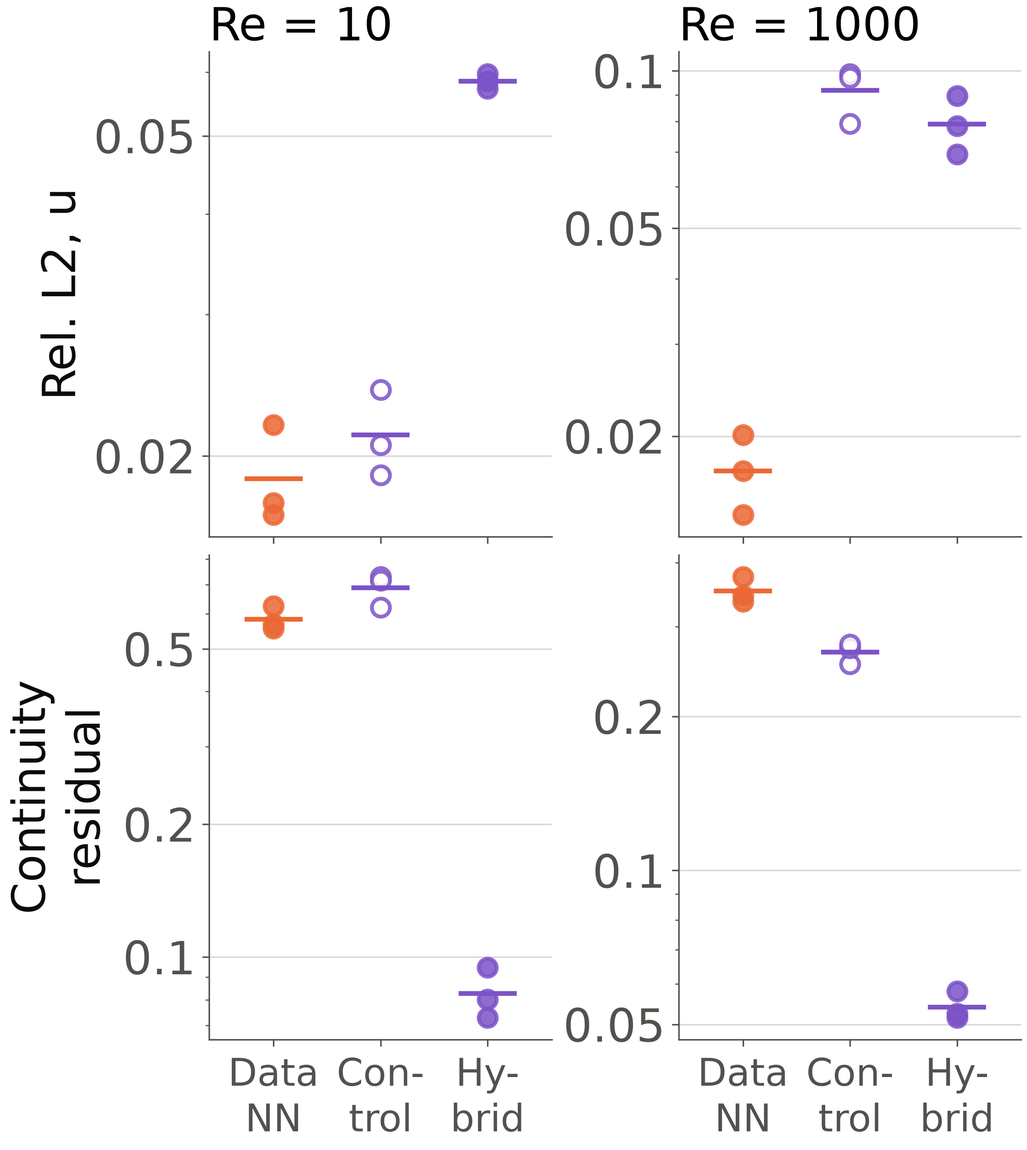
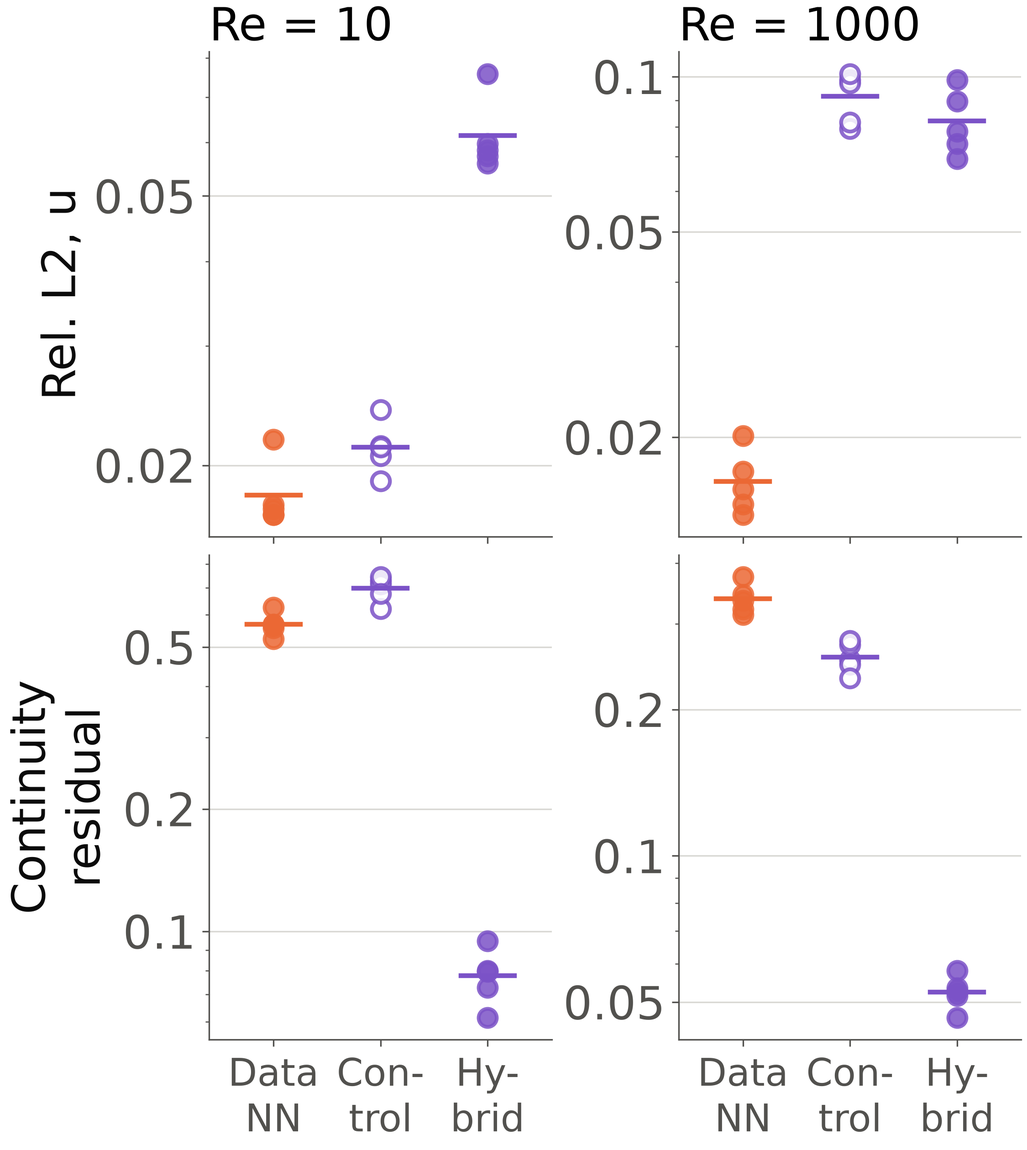
Notes, READMEs and analysis figures: control with 5 seeds, Re 1000 long runs

diff --git a/experiments/analysis/training_analysis.py b/experiments/analysis/training_analysis.py
@@ -688,7 +688,7 @@ def control_dir(re, seed):
     return os.path.join(C.experiment_dir(re), "control", "hybrid", f"hybrid_re{re:g}_gpu_s{seed}_dataonly")
 
 
-def fig_hybrid_control(res=(100.0, 400.0), seeds=TREND_SEEDS, name="hybrid_control"):
+def fig_hybrid_control(res=(100.0, 400.0), seeds=(1, 2, 3, 4, 5), name="hybrid_control"):
     """Data NN -> data-only control (only the output units change) -> hybrid
     (only the physics loss is added): test-A error of u and continuity residual
     per seed, from each run's metrics.json. Drawn once every control run exists."""

diff --git a/notes/results_draft.md b/notes/results_draft.md
@@ -4,7 +4,7 @@ Draft of the Results chapter. The method is described in `notes/methodology_draf
 
 **Conventions.** Errors are relative $L_2$ errors against the $64 \times 64$ finite-difference (FD) reference at the final training step. Test A is the held-out 15% of the space-time points, test B the ten held-out snapshots. Tables show the mean over seeds with the sample standard deviation in brackets and list the seeds used; every number comes from the file named under the table. Tables are generated from those files, not typed.
 
-**Still changing.** Further 100,000-step runs (PINN at $Re = 1000$, seeds 2–3; hybrid at $Re = 1000$, seed 1) are being trained. Every number marked **[3 seeds; 5 pending]** or **[pending]** will change when they are scored; the others are final.
+All runs planned for these results are scored; no number below is pending.
 
 ## 4.1 Reference solution
 
@@ -79,12 +79,12 @@ The residuals by automatic differentiation are averages over random points, and 
 | 10 | Data NN | 20,000 steps | 1,2,3,4,5 | 0.569 (0.037) | 0.526 (0.041) | 0.318 (0.039) | 0.169 (0.065) |
 | 10 | PINN | 20,000 steps | 1,2,3,4,5 | 0.018 (0.002) | 0.013 (9.0e-04) | 0.012 (6.5e-04) | 0.011 (5.0e-04) |
 | 10 | Hybrid | 20,000 steps | 1,2,3,4,5 | 0.078 (0.012) | 0.034 (0.0036) | 0.028 (0.0032) | 0.020 (0.0021) |
-| 10 | Control | control | 1,2,3 | 0.688 (0.058) | 0.636 (0.070) | 0.310 (0.090) | 0.162 (0.055) |
+| 10 | Control | control | 1,2,3,4,5 | 0.697 (0.049) | 0.651 (0.054) | 0.320 (0.065) | 0.153 (0.044) |
 | 10 | PINN | warm start (S6) | 1,2,3 | 0.016 (0.0018) | 0.012 (5.8e-04) | 0.011 (5.6e-04) | 0.0092 (4.8e-04) |
 | 100 | Data NN | 20,000 steps | 1,2,3,4,5 | 0.546 (0.063) | 0.494 (0.053) | 0.300 (0.080) | 0.140 (0.024) |
 | 100 | PINN | 20,000 steps | 1,2,3,4,5 | 0.071 (0.030) | 0.019 (0.0046) | 0.016 (0.0048) | 0.014 (0.0042) |
 | 100 | Hybrid | 20,000 steps | 1,2,3,4,5 | 0.159 (0.059) | 0.034 (0.011) | 0.027 (0.012) | 0.023 (0.011) |
-| 100 | Control | control | 1,2,3 | 0.448 (0.029) | 0.392 (0.040) | 0.214 (0.026) | 0.138 (0.024) |
+| 100 | Control | control | 1,2,3,4,5 | 0.477 (0.051) | 0.431 (0.070) | 0.238 (0.041) | 0.143 (0.020) |
 | 100 | Data NN | S1: 1% of data | 1,2,3 | 0.464 (0.044) | 0.445 (0.046) | 0.355 (0.031) | 0.262 (0.024) |
 | 100 | Data NN | S1: 10% of data | 1,2,3 | 0.587 (0.011) | 0.523 (0.031) | 0.345 (0.019) | 0.181 (0.013) |
 | 100 | PINN | S2: 5,000 points | 1,2,3 | 1.26 (0.278) | 0.428 (0.134) | 0.028 (0.0063) | 0.020 (0.0048) |
@@ -96,15 +96,16 @@ The residuals by automatic differentiation are averages over random points, and 
 | 400 | Data NN | 20,000 steps | 1,2,3,4,5 | 0.548 (0.022) | 0.483 (0.035) | 0.314 (0.028) | 0.174 (0.019) |
 | 400 | PINN | 20,000 steps | 1,2,3,4,5 | 0.029 (0.020) | 0.014 (0.0025) | 0.012 (0.0014) | 0.011 (0.0013) |
 | 400 | Hybrid | 20,000 steps | 1,2,3,4,5 | 0.075 (0.070) | 0.033 (0.0065) | 0.027 (0.0067) | 0.025 (0.006) |
-| 400 | Control | control | 1,2,3 | 0.326 (0.054) | 0.286 (0.048) | 0.207 (0.031) | 0.149 (0.020) |
+| 400 | Control | control | 1,2,3,4,5 | 0.357 (0.062) | 0.319 (0.060) | 0.221 (0.031) | 0.155 (0.018) |
 | 400 | PINN | 100,000 steps (S5) | 1,2,3 | 1.55 (0.311) | 0.105 (0.086) | 0.0083 (5.2e-04) | 0.0056 (6.0e-04) |
 | 400 | Hybrid | 100,000 steps (S5) | 1,2,3 | 0.703 (0.279) | 0.080 (0.032) | 0.019 (8.6e-04) | 0.015 (0.0012) |
 | 400 | PINN | warm start (S6) | 1,2,3,4,5 | 1.32 (0.178) | 0.042 (0.018) | 0.010 (0.0017) | 0.0086 (0.0015) |
 | 1000 | Data NN | 20,000 steps | 1,2,3,4,5 | 0.338 (0.024) | 0.244 (0.017) | 0.161 (0.013) | 0.115 (0.019) |
 | 1000 | PINN | 20,000 steps | 1,2,3,4,5 | 0.012 (0.0016) | 0.011 (0.0018) | 0.010 (0.0019) | 0.0097 (0.002) |
 | 1000 | Hybrid | 20,000 steps | 1,2,3,4,5 | 0.052 (0.0042) | 0.040 (0.0043) | 0.031 (0.0037) | 0.028 (0.0037) |
-| 1000 | Control | control | 1,2,3 | 0.267 (0.012) | 0.230 (0.0095) | 0.195 (0.0029) | 0.154 (0.0059) |
-| 1000 | PINN | 100,000 steps (S5) | 1 | 0.821 | 0.229 | 0.0091 | 0.0063 |
+| 1000 | Control | control | 1,2,3,4,5 | 0.257 (0.018) | 0.224 (0.011) | 0.190 (0.0084) | 0.151 (0.010) |
+| 1000 | PINN | 100,000 steps (S5) | 1,2,3 | 1.03 (0.760) | 0.285 (0.280) | 0.015 (0.0086) | 0.0064 (0.0016) |
+| 1000 | Hybrid | 100,000 steps (S5) | 1 | 0.339 | 0.057 | 0.023 | 0.018 |
 | 1000 | PINN | warm start (S6) | 1,2,3 | 1.27 (0.794) | 0.112 (0.105) | 0.0083 (0.0019) | 0.007 (0.002) |
 
 Continuity residual (RMS, automatic differentiation) at the 50,000 evaluation points, and without the points closer than $r$ to either lid corner (post-hoc, added after the S5 and S6 values were seen; all points: 50,000; $r \ge 0.05$: 49,793). Mean (s.d.). Source: `experiments/analysis/plots/analysis_corner_excluded.csv`.
@@ -204,18 +205,18 @@ Accuracy, physics and cost of the hybrid are in the tables of Sections 4.2–4.5
 <!-- table:control -->
 | $Re$ | Network | Seeds | Test A $u$ | Test A $v$ | Test A $p$ | Continuity | x-momentum |
 |---|---|---|---|---|---|---|---|
-| 10 | Data NN | 1,2,3 | 0.019 (0.0027) | 0.018 (0.0014) | 0.119 (0.0016) | 0.584 (0.037) | 57.5 (14.9) |
-| 10 | Control (data loss only, physical outputs) | 1,2,3 | 0.021 (0.0027) | 0.036 (0.012) | 0.125 (0.0034) | 0.688 (0.058) | 48.4 (7.64) |
-| 10 | Hybrid | 1,2,3 | 0.058 (0.0012) | 0.054 (0.0072) | 0.216 (0.0038) | 0.083 (0.011) | 0.228 (0.069) |
-| 100 | Data NN | 1,2,3 | 0.017 (0.0014) | 0.018 (0.0011) | 0.113 (0.0012) | 0.547 (0.076) | 5.62 (0.090) |
-| 100 | Control (data loss only, physical outputs) | 1,2,3 | 0.030 (0.0059) | 0.039 (0.0042) | 0.126 (0.0031) | 0.448 (0.029) | 2.43 (0.272) |
-| 100 | Hybrid | 1,2,3 | 0.050 (0.0036) | 0.053 (0.0062) | 0.169 (0.0023) | 0.173 (0.032) | 1.01 (0.745) |
-| 400 | Data NN | 1,2,3 | 0.023 (0.002) | 0.025 (0.0016) | 0.158 (0.004) | 0.549 (0.030) | 2.08 (0.555) |
-| 400 | Control (data loss only, physical outputs) | 1,2,3 | 0.053 (0.0014) | 0.066 (0.0094) | 0.201 (0.003) | 0.326 (0.054) | 0.686 (0.055) |
-| 400 | Hybrid | 1,2,3 | 0.065 (0.011) | 0.074 (0.0071) | 0.231 (0.017) | 0.041 (0.0043) | 0.177 (0.188) |
-| 1000 | Data NN | 1,2,3 | 0.017 (0.003) | 0.020 (0.0059) | 0.022 (0.011) | 0.352 (0.021) | 1.32 (0.391) |
-| 1000 | Control (data loss only, physical outputs) | 1,2,3 | 0.092 (0.011) | 0.099 (0.0086) | 0.154 (0.015) | 0.267 (0.012) | 0.303 (0.041) |
-| 1000 | Hybrid | 1,2,3 | 0.079 (0.010) | 0.105 (9.2e-04) | 0.154 (0.012) | 0.054 (0.0035) | 0.118 (0.018) |
+| 10 | Data NN | 1,2,3,4,5 | 0.018 (0.0021) | 0.019 (0.0017) | 0.119 (0.0015) | 0.569 (0.037) | 51.6 (13.6) |
+| 10 | Control (data loss only, physical outputs) | 1,2,3,4,5 | 0.021 (0.0019) | 0.033 (0.0097) | 0.128 (0.0052) | 0.697 (0.049) | 48.1 (5.43) |
+| 10 | Hybrid | 1,2,3,4,5 | 0.061 (0.0081) | 0.059 (0.013) | 0.217 (0.0035) | 0.078 (0.012) | 0.291 (0.099) |
+| 100 | Data NN | 1,2,3,4,5 | 0.017 (0.001) | 0.018 (0.0034) | 0.113 (0.0013) | 0.546 (0.063) | 5.57 (0.165) |
+| 100 | Control (data loss only, physical outputs) | 1,2,3,4,5 | 0.030 (0.0042) | 0.038 (0.0048) | 0.125 (0.0033) | 0.477 (0.051) | 2.50 (0.219) |
+| 100 | Hybrid | 1,2,3,4,5 | 0.061 (0.032) | 0.059 (0.021) | 0.181 (0.029) | 0.159 (0.059) | 0.875 (0.680) |
+| 400 | Data NN | 1,2,3,4,5 | 0.023 (0.0015) | 0.025 (0.0024) | 0.161 (0.0084) | 0.548 (0.022) | 2.08 (0.483) |
+| 400 | Control (data loss only, physical outputs) | 1,2,3,4,5 | 0.053 (0.0069) | 0.062 (0.0093) | 0.197 (0.0062) | 0.357 (0.062) | 0.678 (0.082) |
+| 400 | Hybrid | 1,2,3,4,5 | 0.066 (0.012) | 0.071 (0.013) | 0.228 (0.014) | 0.075 (0.070) | 0.213 (0.207) |
+| 1000 | Data NN | 1,2,3,4,5 | 0.016 (0.0024) | 0.019 (0.0047) | 0.020 (0.0084) | 0.338 (0.024) | 1.32 (0.279) |
+| 1000 | Control (data loss only, physical outputs) | 1,2,3,4,5 | 0.092 (0.010) | 0.092 (0.012) | 0.152 (0.017) | 0.257 (0.018) | 0.292 (0.033) |
+| 1000 | Hybrid | 1,2,3,4,5 | 0.082 (0.012) | 0.102 (0.0045) | 0.169 (0.036) | 0.052 (0.0042) | 0.119 (0.013) |
 
 Same seeds in the three rows of each $Re$. Sources: `experiments/results/control_re*.csv`, `experiment_results*.csv`.
 <!-- /table:control -->
@@ -266,7 +267,7 @@ Sources: `experiments/results/causal_re400.csv`, `experiment_results_re400.csv`.
 
 **Figure.** `analysis_s4_causal.png`.
 
-**S5: training five times longer.** At $Re = 400$ the PINN's error falls in every seed but stays far above the data NN's; at $Re = 100$ the PINN barely changes and at $Re = 1000$ (one seed) it does not recover. Measured over all evaluation points, the long-trained networks violate continuity much more than after 20,000 steps. Nearly all of that comes from the two lid corners, where the wall velocity is discontinuous and the exact solution is singular: without the points within 0.05 of a lid corner, the long-trained PINNs satisfy continuity better than the 20,000-step PINNs at $Re = 400$ and as well at $Re = 1000$ (table in Section 4.3). The hybrid at $Re = 400$ (three seeds) gains less: $u$ falls from 0.065 to 0.046, by a factor 0.57 and 0.61 in seeds 1 and 3 and not at all in seed 2 (1.01); away from the lid corners ($r \ge 0.05$) its continuity residual falls from 0.026 to 0.019, still about twice the long-trained PINN's (0.0083).
+**S5: training five times longer.** At $Re = 400$ the PINN's error falls in every seed but stays far above the data NN's; at $Re = 100$ the PINN barely changes and at $Re = 1000$ (three seeds) it barely improves ($u$ 0.410 to 0.375, per-seed ratios 0.94, 0.99 and 0.81; $v$ and $p$ stay near 1). Measured over all evaluation points, the long-trained networks violate continuity much more than after 20,000 steps. Nearly all of that comes from the two lid corners, where the wall velocity is discontinuous and the exact solution is singular: without the points within 0.05 of a lid corner, the long-trained PINNs satisfy continuity better than the 20,000-step PINNs at $Re = 400$; at $Re = 1000$ seeds 1 and 2 are about as good as after 20,000 steps (0.009 and 0.011 against 0.009), seed 3 is worse (0.025 against 0.010) (table in Section 4.3). The hybrid at $Re = 400$ (three seeds) gains less: $u$ falls from 0.065 to 0.046, by a factor 0.57 and 0.61 in seeds 1 and 3 and not at all in seed 2 (1.01); away from the lid corners ($r \ge 0.05$) its continuity residual falls from 0.026 to 0.019, still about twice the long-trained PINN's (0.0083). The one hybrid trained for 100,000 steps at $Re = 1000$ (seed 1) gains as much as the PINN at $Re = 400$ (ratio 0.35): $u$ 0.078 to 0.027, $v$ 0.105 to 0.030, $p$ 0.146 to 0.042, with continuity away from the lid corners 0.030 to 0.023. Its $u$ error is then within a factor of two of the data NN's at that $Re$ (0.016, five seeds); one seed only.
 
 <!-- table:s5 -->
 | $Re$ | Network | Runs | Seeds | Test A $u$ | Test A $v$ | Test A $p$ | Continuity | $u$ ratio per seed (new / old) |
@@ -275,8 +276,10 @@ Sources: `experiments/results/causal_re400.csv`, `experiment_results_re400.csv`.
 | 400 | PINN | 100,000 steps | 1,2,3 | 0.141 (0.013) | 0.242 (0.034) | 0.797 (0.444) | 1.55 (0.311) | 0.42, 0.34, 0.45 |
 | 400 | Hybrid | 20,000 steps, same seeds | 1,2,3 | 0.065 (0.011) | 0.074 (0.0071) | 0.231 (0.017) | 0.041 (0.0043) |  |
 | 400 | Hybrid | 100,000 steps | 1,2,3 | 0.046 (0.008) | 0.045 (0.0044) | 0.203 (0.0027) | 0.703 (0.279) | 0.57, 1.01, 0.61 |
-| 1000 | PINN | 20,000 steps, same seeds | 1 | 0.413 | 0.993 | 1.05 | 0.010 |  |
-| 1000 | PINN | 100,000 steps | 1 | 0.390 | 0.942 | 1.03 | 0.821 | 0.94 |
+| 1000 | PINN | 20,000 steps, same seeds | 1,2,3 | 0.410 (0.0052) | 0.983 (0.0091) | 1.02 (0.029) | 0.010 (6.0e-04) |  |
+| 1000 | PINN | 100,000 steps | 1,2,3 | 0.375 (0.043) | 0.892 (0.121) | 1.04 (0.065) | 1.03 (0.760) | 0.94, 0.99, 0.81 |
+| 1000 | Hybrid | 20,000 steps, same seeds | 1 | 0.078 | 0.105 | 0.146 | 0.058 |  |
+| 1000 | Hybrid | 100,000 steps | 1 | 0.027 | 0.030 | 0.042 | 0.339 | 0.35 |
 
 Scored at the final step (100,000) at 50,000 fresh points. Sources: `experiments/results/extended_re*.csv`, `experiment_results*.csv`.
 
@@ -286,12 +289,13 @@ Scored at the final step (100,000) at 50,000 fresh points. Sources: `experiments
 | 100, PINN | 3 | 0.084 | 0.064 | 0.082 |
 | 400, PINN | 3 | 0.349 | 0.212 | 0.141 |
 | 400, Hybrid | 3 | 0.065 | 0.047 | 0.046 |
-| 1000, PINN | 1 | 0.413 | 0.386 | 0.390 |
+| 1000, PINN | 3 | 0.410 | 0.396 | 0.375 |
+| 1000, Hybrid | 1 | 0.078 | 0.049 | 0.027 |
 
 Test-A $u$ from the runs' evaluation log (mean over runs). Source: `experiments/results/poster_numbers.json`.
 <!-- /table:s5 -->
 
-$Re = 1000$ PINN: **[1 seed; 3 pending]**; $Re = 1000$ hybrid: **[pending]**. The 100,000-step runs at $Re = 100$ have no physics evaluation yet.
+The hybrid at $Re = 1000$ has one seed. The 100,000-step runs at $Re = 100$ have no physics evaluation.
 
 **S6: starting from a trained PINN at a neighbouring Reynolds number.** At $Re = 400$ every seed started from the $Re = 100$ PINN ends at less than half the error of the random start. At $Re = 1000$, started from those $Re = 400$ runs, two of three seeds improve and one does not change. At $Re = 10$ there is no clear effect. The warm-start runs show the same lid-corner rise in the all-points residual as S5.
 

diff --git a/notes/week-04.md b/notes/week-04.md
@@ -194,7 +194,7 @@ Two more seeds at $Re = 400$ (4 and 5) improve in the same way: $u$ 0.162 and 0.
 
 The same head start at $Re = 10$ (from the $Re = 100$ PINN, seeds 1 to 3, `experiments/results/continuation_re10.csv`) has no clear effect: $u$ 0.150, 0.155 and 0.161 against 0.168, 0.151 and 0.158, so only seed 1 improves; $p$ is slightly lower in every seed (0.50 against 0.52) and $v$ slightly higher (0.195 to 0.200 against 0.192 to 0.195).
 
-### Hybrid network: data loss plus physics loss (5 seeds at each Reynolds number; control 3 seeds):
+### Hybrid network: data loss plus physics loss (5 seeds at each Reynolds number, also for the control):
 37. The third network is trained on both losses: the data NN's loss on the FD training rows plus the PINN's loss on the equations, initial and boundary conditions (`models/hybrid/src/train.py`). Everything else is shared with the other two networks, and `tests/test_hybrid.py` checks it against the code: same architecture and initialization, Adam with learning rate $10^{-3}$, 20,000 steps, same seeds, same training rows, same mini-batches of 4,096 in the same order, same collocation, initial and boundary points, all loss weights starting at 1, and the same weight check at step 2,000. There is one more difference besides the loss: the hybrid outputs physical $u$, $v$, $p$, which the physics residuals need, while the data NN outputs standardized values. Its data loss has the same value as the data NN's for the same prediction, but the network itself is parametrized differently. Against the PINN the only change is the added data term; against the data NN two things change. A control run with the hybrid code and the data loss only separates the two effects.
 
 38. Results for seeds 1 to 3, the same seeds for all three networks (`experiments/results/experiment_results.csv`, `experiment_results_re400.csv`):
@@ -223,9 +223,9 @@ So over the four Reynolds numbers the hybrid's $u$ error stays between 0.050 and
 
 So most of the accuracy the hybrid gives up at $Re = 400$ comes from the output parametrization, not from the physics. The control at $Re = 10$ and 1000 (seeds 1 to 3, `experiments/results/control_re10.csv`, `control_re1000.csv`, `analysis_hybrid_control_re10_re1000.png`) shows that this split depends on $Re$:
 - at $Re = 10$ the control is almost as accurate as the data NN ($u$ 0.021 against 0.019), so nearly all of the hybrid's gap (0.058) comes from the physics loss;
-- at $Re = 1000$ the control is 5.3 times less accurate than the data NN (0.092 against 0.017), and adding the physics loss improves it to 0.079, lower than the control in each of the three seeds.
+- at $Re = 1000$ the control is 5.3 times less accurate than the data NN (0.092 against 0.017), and adding the physics loss improves it to 0.079, lower than the control in each of the three seeds. With seeds 4 and 5 of the control added (run last, same settings; `control_re*.csv`), the hybrid is lower than the control in four of five seeds at $Re = 1000$ (seed 4: 0.099 against 0.082).
 
-Over the four Reynolds numbers the cost of the output units grows (1.1, 1.7, 2.3, 5.3 times) and the accuracy cost of the physics loss falls (2.8, 1.7, 1.25, 0.86 times), while the physics loss lowers the continuity residual by 2.6 to 8.3 times at every $Re$. A possible explanation, not tested: the scales of the outputs drift apart as $Re$ grows. The train-split standard deviation of $p$ falls from 0.735 at $Re = 10$ to 0.090, 0.038 and 0.026 at $Re = 100$, 400 and 1000, while that of $u$ stays between 0.16 and 0.23 (each run's `config.json`), so a network with physical outputs must produce an ever smaller pressure, which the standardized data NN never has to. In all twenty main hybrid runs the data term was the largest loss term at step 2,000, 15 to 53 times the smallest, so the weights were never rebalanced. Training takes about 870 s on the GPU, slightly more than the PINN (780 s), because both losses are computed at every step.
+Over the four Reynolds numbers, means of seeds 1 to 5, the cost of the output units grows (1.2, 1.8, 2.3, 5.6 times) and the accuracy cost of the physics loss falls (2.9, 2.1, 1.24, 0.90 times; with seeds 1 to 3 only: 1.1, 1.7, 2.3, 5.3 and 2.8, 1.7, 1.25, 0.86), while the physics loss lowers the continuity residual by 3.0 to 9.0 times at every $Re$. The rise at $Re = 100$ (1.7 to 2.1) comes from hybrid seed 5, which ends on a spike (item 39). A possible explanation, not tested: the scales of the outputs drift apart as $Re$ grows. The train-split standard deviation of $p$ falls from 0.735 at $Re = 10$ to 0.090, 0.038 and 0.026 at $Re = 100$, 400 and 1000, while that of $u$ stays between 0.16 and 0.23 (each run's `config.json`), so a network with physical outputs must produce an ever smaller pressure, which the standardized data NN never has to. In all twenty main hybrid runs the data term was the largest loss term at step 2,000, 15 to 53 times the smallest, so the weights were never rebalanced. Training takes about 870 s on the GPU, slightly more than the PINN (780 s), because both losses are computed at every step.
 
 39. Training stability. Results are taken at the final step, so a run that is temporarily worse at the end is reported as worse. To see how often that could happen, I counted spikes: evaluation steps where the test-A error of $u$ is more than twice the best value reached before. This definition was fixed before any hybrid result existed (`experiments/analysis/plots/analysis_spikes.csv`).
 - The data NN has spikes in 10 of its 20 main runs (5 seeds at each $Re$), up to 8 times its best value, but it always recovered before the final step.
@@ -237,7 +237,7 @@ Over the four Reynolds numbers the cost of the output units grows (1.1, 1.7, 2.3
 41. Results are always taken at the final step of the fixed protocol, also when a run ends on a spike. Numbers are not changed after seeing results; if a run looks under-trained, the remedy is a separate study with more training (S5, 100,000 steps), not a change to the existing runs.
 
 ### Open problems and next steps:
-42. The PINN failure at $Re \ge 400$ is the main open problem, and causal weighting as published did not fix it. Starting from the $Re = 100$ PINN (S6, 3 seeds) and training five times longer (S5, 3 seeds at $Re = 400$: 0.141 after 100,000 steps) both bring the $u$ error down to about 0.15. At the same total of 40,000 steps the warm start is ahead: 0.153 against 0.212 for continued training from random weights (`experiments/results/poster_numbers.json`). This points to an optimization problem rather than a limit of the method: from random weights, 20,000 steps end in a wrong flow. Adding the FD data to the physics loss (the hybrid, item 38) also avoids the wrong flow at $Re = 400$ within 20,000 steps. Longer training seemed to come at a price at first. After 100,000 steps the S5 PINNs at $Re = 400$ have a much larger continuity residual at the 50,000 evaluation points (1.2 to 1.8, against 0.015 to 0.060 after 20,000 steps, and 0.55 for the data NN), and so do the three hybrids trained that long (0.038–0.046 to 0.48–1.02), the one 100,000-step PINN at $Re = 1000$ (0.010 to 0.82) and the S6 warm-start runs (1.1 to 1.5 at $Re = 400$) (`experiments/results/extended_re*.csv`, `continuation_re400.csv`). I first read this as the networks fitting the equations only at their fixed collocation points. A check of where the residual lies showed otherwise: it sits within about 0.03 of the two corners where the moving lid meets the side walls, where the wall velocity jumps from 1 to 0 and the exact solution is singular. Away from those corners the long-trained networks satisfy continuity better than after 20,000 steps (`experiments/analysis/plots/analysis_corner_excluded.csv`, residual without the points within 0.05 of a lid corner; a check added after the S5 and S6 values were seen). For the hybrid the same holds (0.023–0.030 to 0.018–0.020 without the corners), although its accuracy gains less from longer training than the PINN's: mean $u$ 0.065 to 0.046, and seed 2 not at all (ratio 1.01). Longer training sharpens the corner, and a handful of points near it then dominate the average. The residual at random points therefore has to be reported together with where it comes from. At $Re = 1000$ the PINN trained for 100,000 steps gains almost nothing ($u$ 0.413 to 0.390, $v$ and $p$ still about 1, `experiments/results/extended_re1000.csv`), so longer training does not rescue the PINN there. Next, each as a separate study with the main runs left unchanged: raising $Re$ in several steps (100, 200, 400, then 1000), placing more collocation points near the lid, where the error is largest, and a causal schedule with larger $\varepsilon$ suited to our loss scale.
+42. The PINN failure at $Re \ge 400$ is the main open problem, and causal weighting as published did not fix it. Starting from the $Re = 100$ PINN (S6, 3 seeds) and training five times longer (S5, 3 seeds at $Re = 400$: 0.141 after 100,000 steps) both bring the $u$ error down to about 0.15. At the same total of 40,000 steps the warm start is ahead: 0.153 against 0.212 for continued training from random weights (`experiments/results/poster_numbers.json`). This points to an optimization problem rather than a limit of the method: from random weights, 20,000 steps end in a wrong flow. Adding the FD data to the physics loss (the hybrid, item 38) also avoids the wrong flow at $Re = 400$ within 20,000 steps. Longer training seemed to come at a price at first. After 100,000 steps the S5 PINNs at $Re = 400$ have a much larger continuity residual at the 50,000 evaluation points (1.2 to 1.8, against 0.015 to 0.060 after 20,000 steps, and 0.55 for the data NN), and so do the three hybrids trained that long (0.038–0.046 to 0.48–1.02), the three 100,000-step PINNs at $Re = 1000$ (0.010–0.011 to 0.39–1.87) and the S6 warm-start runs (1.1 to 1.5 at $Re = 400$) (`experiments/results/extended_re*.csv`, `continuation_re400.csv`). I first read this as the networks fitting the equations only at their fixed collocation points. A check of where the residual lies showed otherwise: it sits within about 0.03 of the two corners where the moving lid meets the side walls, where the wall velocity jumps from 1 to 0 and the exact solution is singular. Away from those corners the long-trained networks satisfy continuity better than after 20,000 steps (`experiments/analysis/plots/analysis_corner_excluded.csv`, residual without the points within 0.05 of a lid corner; a check added after the S5 and S6 values were seen). For the hybrid the same holds (0.023–0.030 to 0.018–0.020 without the corners), although its accuracy gains less from longer training than the PINN's: mean $u$ 0.065 to 0.046, and seed 2 not at all (ratio 1.01). Longer training sharpens the corner, and a handful of points near it then dominate the average. The residual at random points therefore has to be reported together with where it comes from. At $Re = 1000$ the three PINNs trained for 100,000 steps gain little ($u$ 0.410 to 0.375, $v$ and $p$ still about 1, `experiments/results/extended_re1000.csv`), so longer training does not rescue the PINN there; away from the lid corners seed 3 is even worse than after 20,000 steps (0.025 against 0.010). The one hybrid trained that long at $Re = 1000$ (seed 1), by contrast, improves from 0.078 to 0.027 in $u$ and from 0.146 to 0.042 in $p$, within a factor of two of the data NN (0.016); one seed only. Next, each as a separate study with the main runs left unchanged: raising $Re$ in several steps (100, 200, 400, then 1000), placing more collocation points near the lid, where the error is largest, and a causal schedule with larger $\varepsilon$ suited to our loss scale.
 
 43. The PINN at $Re = 10$ is limited by the boundary loss. A study with a larger $\lambda_{bc}$ would show whether that is the cause, without touching the existing runs.
 

diff --git a/notes/findings_summary.md b/notes/findings_summary.md
@@ -68,7 +68,7 @@ At unseen times (test B, ten held-out snapshots) the errors are similar: 0.014 (
 
 At the same total of 40,000 steps, the warm start (0.153) is better than continued training from random weights (0.212). The Re 400 failure is therefore mostly an optimization problem.
 
-Longer training raises the continuity residual measured at the 50,000 evaluation points, but only at the two lid corners. After 100,000 steps the three S5 PINNs at $Re = 400$ have residuals of 1.21, 1.82 and 1.63 there, against 0.015–0.060 after 20,000 steps [`extended_re400.csv`, `experiment_results_re400.csv`]; the three hybrids trained for 100,000 steps (seeds 1–3) go from 0.038–0.046 to 0.48–1.02, and the one 100,000-step PINN at $Re = 1000$ from 0.010 to 0.82 [`extended_re1000.csv`]. The S6 warm-start runs show the same (1.11–1.49 at $Re = 400$) [`continuation_re400.csv`]. A check of where the residual lies showed that it is concentrated within about 0.03 of the two corners where the moving lid meets the side walls, where the boundary velocity jumps from 1 to 0 and the exact solution is singular. Excluding the points within 0.05 of either lid corner (0.4% of the domain; a check added after these values were seen), the long-trained PINNs have continuity residuals of 0.008–0.009 (S5) and 0.008–0.012 (S6), lower than the 20,000-step PINNs (0.011–0.013), and the data NN 0.29–0.36; the long-trained hybrids 0.018–0.020, against 0.023–0.030 after 20,000 steps [`experiments/analysis/plots/analysis_corner_excluded.csv`]. So longer training improves consistency in the flow and sharpens the corner singularity, which then dominates the average. The hybrid gains less accuracy from longer training than the PINN at $Re = 400$: mean $u$ 0.065 to 0.046, with per-seed ratios 0.57, 1.01 and 0.61 [`extended_re400.csv`, `experiment_results_re400.csv`]. The $Re = 1000$ PINN trained for 100,000 steps also gains almost no accuracy ($u$ 0.413 to 0.390, $v$ 0.94, $p$ 1.03). The S5 runs at $Re = 100$ have not been scored for physics.
+Longer training raises the continuity residual measured at the 50,000 evaluation points, but only at the two lid corners. After 100,000 steps the three S5 PINNs at $Re = 400$ have residuals of 1.21, 1.82 and 1.63 there, against 0.015–0.060 after 20,000 steps [`extended_re400.csv`, `experiment_results_re400.csv`]; the three hybrids trained for 100,000 steps (seeds 1–3) go from 0.038–0.046 to 0.48–1.02, and the three 100,000-step PINNs at $Re = 1000$ from 0.010–0.011 to 0.39–1.87 [`extended_re1000.csv`]. The S6 warm-start runs show the same (1.11–1.49 at $Re = 400$) [`continuation_re400.csv`]. A check of where the residual lies showed that it is concentrated within about 0.03 of the two corners where the moving lid meets the side walls, where the boundary velocity jumps from 1 to 0 and the exact solution is singular. Excluding the points within 0.05 of either lid corner (0.4% of the domain; a check added after these values were seen), the long-trained PINNs have continuity residuals of 0.008–0.009 (S5) and 0.008–0.012 (S6), lower than the 20,000-step PINNs (0.011–0.013), and the data NN 0.29–0.36; the long-trained hybrids 0.018–0.020, against 0.023–0.030 after 20,000 steps [`experiments/analysis/plots/analysis_corner_excluded.csv`]. So longer training improves consistency in the flow and sharpens the corner singularity, which then dominates the average. The hybrid gains less accuracy from longer training than the PINN at $Re = 400$: mean $u$ 0.065 to 0.046, with per-seed ratios 0.57, 1.01 and 0.61 [`extended_re400.csv`, `experiment_results_re400.csv`]. At $Re = 1000$ the corner-excluded residual of the long-trained PINNs is about unchanged in seeds 1 and 2 (0.009 and 0.011, against 0.009) and higher in seed 3 (0.025 against 0.010), and they gain little accuracy ($u$ 0.410 to 0.375, per-seed ratios 0.94, 0.99, 0.81; $v$ 0.89, $p$ 1.04). The one hybrid trained for 100,000 steps at $Re = 1000$ (seed 1) improves strongly: $u$ 0.078 to 0.027, $v$ 0.105 to 0.030, $p$ 0.146 to 0.042, continuity without the lid corners 0.030 to 0.023 (one seed) [`extended_re1000.csv`, `experiment_results_re1000.csv`, `analysis_corner_excluded.csv`]. The S5 runs at $Re = 100$ have not been scored for physics.
 
 Results at other $Re$:
 - **S6 at $Re = 1000$:** final $u$ 0.412, 0.277 and 0.285, against 0.413, 0.413 and 0.404 from random weights. Two of three seeds improve [`continuation_re1000.csv`].
@@ -149,14 +149,14 @@ The hybrid costs slightly more to train than the PINN, because it computes both 
 
 **Caveats.**
 - Three seeds per Reynolds number in the tables. Of seeds 4–5 at $Re = 100$, seed 4 is in line (test-A $u$ 0.037). Seed 5 ends on a spike exactly at the last step (spike table), so its reported result, 0.118, is worse than the PINN's for that seed (0.076). At $Re = 400$ seeds 4 and 5 are in line (0.054, 0.080). Over all five seeds the hybrid's test-A $u$ error is 0.061 (s.d. 0.008) at $Re = 10$, 0.061 (s.d. 0.032) at $Re = 100$, 0.066 (s.d. 0.012) at $Re = 400$ and 0.082 (s.d. 0.012) at $Re = 1000$; at $Re = 10$ seed 5 is the highest (0.076) without a spike. At $Re = 100$ that is the largest seed-to-seed spread of the three networks (data NN s.d. 0.0010, PINN 0.011), entirely because of seed 5. [`experiment_results*.csv`; spike table `experiments/analysis/plots/analysis_spikes.csv`]
-- The hybrid outputs physical $u$, $v$, $p$, while the data NN outputs standardized values. A data-only control (the hybrid code without the physics loss, seeds 1–3) separates the two effects [`control_re*.csv`; figures `analysis_hybrid_control.png`, `analysis_hybrid_control_re10_re1000.png`]:
+- The hybrid outputs physical $u$, $v$, $p$, while the data NN outputs standardized values. A data-only control (the hybrid code without the physics loss, seeds 1–5) separates the two effects [`control_re*.csv`; figures `analysis_hybrid_control.png`, `analysis_hybrid_control_re10_re1000.png`]:
 
 | $Re$ | Test-A $u$: data NN / control / hybrid | Continuity: data NN / control / hybrid |
 |---|---|---|
-| 10 | 0.019 / 0.021 / 0.058 | 0.584 / 0.688 / 0.083 |
-| 100 | 0.017 / 0.030 / 0.050 | 0.547 / 0.448 / 0.173 |
-| 400 | 0.023 / 0.053 / 0.065 | 0.549 / 0.326 / 0.041 |
-| 1000 | 0.017 / 0.092 / 0.079 | 0.352 / 0.267 / 0.054 |
+| 10 | 0.018 / 0.021 / 0.061 | 0.569 / 0.697 / 0.078 |
+| 100 | 0.017 / 0.030 / 0.061 | 0.546 / 0.477 / 0.159 |
+| 400 | 0.023 / 0.053 / 0.066 | 0.548 / 0.357 / 0.075 |
+| 1000 | 0.016 / 0.092 / 0.082 | 0.338 / 0.257 / 0.052 |
 
-  The cost of the output units grows with $Re$: the control's $u$ error is 1.1, 1.7, 2.3 and 5.3 times the data NN's at $Re = 10$, 100, 400 and 1000. The effect of the physics loss on accuracy shrinks with $Re$: against the control it multiplies the $u$ error by 2.8, 1.7 and 1.25 at $Re = 10$, 100 and 400, and at $Re = 1000$ it lowers it (0.86; lower in each of the three seeds). At every $Re$ the physics loss lowers the continuity residual, by 2.6 to 8.3 times. So at low $Re$ the hybrid's gap to the data NN comes almost entirely from the physics loss, at high $Re$ from the output units.
+  The cost of the output units grows with $Re$: the control's $u$ error is 1.2, 1.8, 2.3 and 5.6 times the data NN's at $Re = 10$, 100, 400 and 1000. The effect of the physics loss on accuracy shrinks with $Re$: against the control it multiplies the $u$ error by 2.9, 2.1 and 1.24 at $Re = 10$, 100 and 400, and at $Re = 1000$ it lowers it (0.90; lower in four of the five seeds, higher in seed 4: 0.099 against 0.082). At every $Re$ the physics loss lowers the continuity residual, by 3.0 to 9.0 times. The $Re = 100$ factor includes hybrid seed 5, which ends on a spike. With the first three seeds only, the factors were 1.1, 1.7, 2.3 and 5.3 (output units) and 2.8, 1.7, 1.25 and 0.86 (physics loss); seeds 4 and 5 of the control were run last, with the same settings. So at low $Re$ the hybrid's gap to the data NN comes almost entirely from the physics loss, at high $Re$ from the output units.
 - The loss weights were not tuned: all start at 1, as in the PINN. In all twenty main runs the data term was the largest at step 2,000, 15 to 53 times the smallest term. That is below the rebalancing threshold of 100, so the weights never changed [each run's `config.json`].

diff --git a/notes/methodology_draft.md b/notes/methodology_draft.md
@@ -196,11 +196,11 @@ S4 uses 32 time chunks; the causality parameter steps through $10^{-2}, 10^{-1},
 
 S6 runs have more training in total than the main runs: 40,000 steps at $Re = 400$ and 10, and 60,000 at $Re = 1000$. They are therefore also compared with S5 runs at the same total number of steps where those exist.
 
-The hybrid network (Section 3.4) is run like the other two networks, seeds 1–5 at every Reynolds number, with the data-only control (Section 3.4), seeds 1–3 at every Reynolds number [`experiments/experiment_00*/control/`].
+The hybrid network (Section 3.4) is run like the other two networks, seeds 1–5 at every Reynolds number, with the data-only control (Section 3.4), seeds 1–5 at every Reynolds number [`experiments/experiment_00*/control/`].
 
 A final set of runs completes the design so that every network has five seeds at every Reynolds number:
 - seeds 4–5 of the data NN, the PINN and the hybrid at $Re = 10$ and 1000 (seeds 1–3 of the data NN and the PINN there shared the GPU, so only their accuracy is used; seeds 4–5 are timed on a free GPU);
-- the data-only control at $Re = 10$ and 1000, seeds 1–3;
+- the data-only control at $Re = 10$ and 1000, seeds 1–3, and seeds 4–5 at all four Reynolds numbers;
 - the 100,000-step runs listed under S5 for the hybrid and for the PINN at $Re = 1000$ (seeds 2–3).
 
 These runs were planned and their scoring fixed before they started; no setting of an earlier run was changed. The PINN at $Re = 10$ with 100,000 steps, planned under S5, was not run.
@@ -232,4 +232,4 @@ All runs used one laptop [`experiments/experiment_001_re100/environment.json`]:
 6. The Reynolds-number trend ($Re = 10$, 1000), studies S4–S6 and the hybrid network were added after the first results at $Re = 100$ and 400. Each was planned and its scoring fixed before its own runs. No setting of an existing run was changed after its results were seen. The same holds for the runs that complete five seeds at $Re = 10$ and 1000, the controls at those Reynolds numbers and the extra 100,000-step runs (Section 8), which were added last. The control was added after the first hybrid results had been seen (item 7).
 7. The hybrid network outputs physical values, whereas the data NN outputs standardized values (Section 3.4). This is a second difference between the two besides the loss; the data-only control run measures its effect.
 8. The weight check at step 2,000 never changed the PINN weights at $Re = 100$: the largest-to-smallest ratios were 21.8, 57.5, 18.3, 66.5 and 46.8 [`notes/week-04.md`, item 17]. Whether it changed weights in other runs is recorded in each `config.json`.
-9. The PDE residuals are RMS values over 50,000 random points, so a few points with very large residuals can dominate them. This happens at the two corners where the moving lid meets the side walls: the wall velocity jumps from 1 to 0 there, and the exact solution is singular. For the networks trained longer than 20,000 steps (S5, and S6 at $Re = 400$ and 1000), at least 99.9% of the squared continuity residual comes from the 0.4% of the points that lie within 0.05 of these corners; for some 20,000-step runs the share is also large (91% for `pinn_re400_gpu_s1`, 99% for `hybrid_re400_gpu_s4`). A version of the residual without the points within 0.02, 0.05 and 0.1 of either lid corner is therefore reported next to the primary value (`experiments/analysis/plots/analysis_corner_excluded.csv`). It was added after the S5 and S6 residuals had been seen; the primary value is unchanged.
+9. The PDE residuals are RMS values over 50,000 random points, so a few points with very large residuals can dominate them. This happens at the two corners where the moving lid meets the side walls: the wall velocity jumps from 1 to 0 there, and the exact solution is singular. For the networks trained longer than 20,000 steps (S5, and S6 at $Re = 400$ and 1000), at least 99.9% of the squared continuity residual of the PINNs, and 99.5–99.97% of that of the hybrids, comes from the 0.4% of the points that lie within 0.05 of these corners; for some 20,000-step runs the share is also large (91% for `pinn_re400_gpu_s1`, 99% for `hybrid_re400_gpu_s4`). A version of the residual without the points within 0.02, 0.05 and 0.1 of either lid corner is therefore reported next to the primary value (`experiments/analysis/plots/analysis_corner_excluded.csv`). It was added after the S5 and S6 residuals had been seen; the primary value is unchanged.

diff --git a/experiments/README.md b/experiments/README.md
@@ -31,7 +31,7 @@ Run ids follow `<method>_re<Re>_<device>_s<seed>[_<tag>]`, e.g. `pinn_re400_gpu_
 | S4 | causal weighting of the PDE residual, PINN | seeds 1-3, $Re = 400$ | `experiment_002_re400/causal/` |
 | S5 | longer training (100,000 steps) | data NN and PINN at $Re = 100$, PINN at $Re = 400$ and $1000$, hybrid at $Re = 400$ and $1000$ | `experiment_00X/extended/` |
 | S6 | $Re$ continuation: PINN started from the trained PINN at a neighbouring $Re$ | $Re = 400$ from $100$ (seeds 1-5), $Re = 1000$ from S6 $Re = 400$ and $Re = 10$ from $100$ (seeds 1-3) | `experiment_00X/continuation/` |
-| control | hybrid with the data loss only, to separate the physics loss from the output units | seeds 1-3 at $Re = 100$ and $400$ (`--hybrid-control`) and at $Re = 10$ and $1000$ (`--day`) | `experiment_00X/control/` |
+| control | hybrid with the data loss only, to separate the physics loss from the output units | seeds 1-3 at $Re = 100$ and $400$ (`--hybrid-control`) and at $Re = 10$ and $1000$ (`--day`); seeds 4-5 at all four $Re$ (train.py directly, command in `models/hybrid/README.md`) | `experiment_00X/control/` |
 
 
 ## Running

diff --git a/models/hybrid/README.md b/models/hybrid/README.md
@@ -48,6 +48,12 @@ python experiments/run_batch.py --hybrid-control   # data-only control, seeds 1-
 python experiments/run_batch.py --day              # seeds 4-5 at Re 10 and 1000, controls at Re 10 and 1000, more 100k runs
 ```
 
+Control seeds 4 and 5 (at each $Re$ of 10, 100, 400, 1000, with its experiment folder) were run with `train.py` directly, then scored with `evaluate_all.py --exp-dir <experiment folder>/control`:
+
+```
+python models/hybrid/src/train.py --device gpu --seed 4 --re 400 --data-only --run-id hybrid_re400_gpu_s4_dataonly --exp-dir experiments/experiment_002_re400/control
+```
+
 Run folders:
 
 - main runs: `experiments/experiment_00X_re<Re>/hybrid/hybrid_re<Re>_gpu_s<seed>/`
